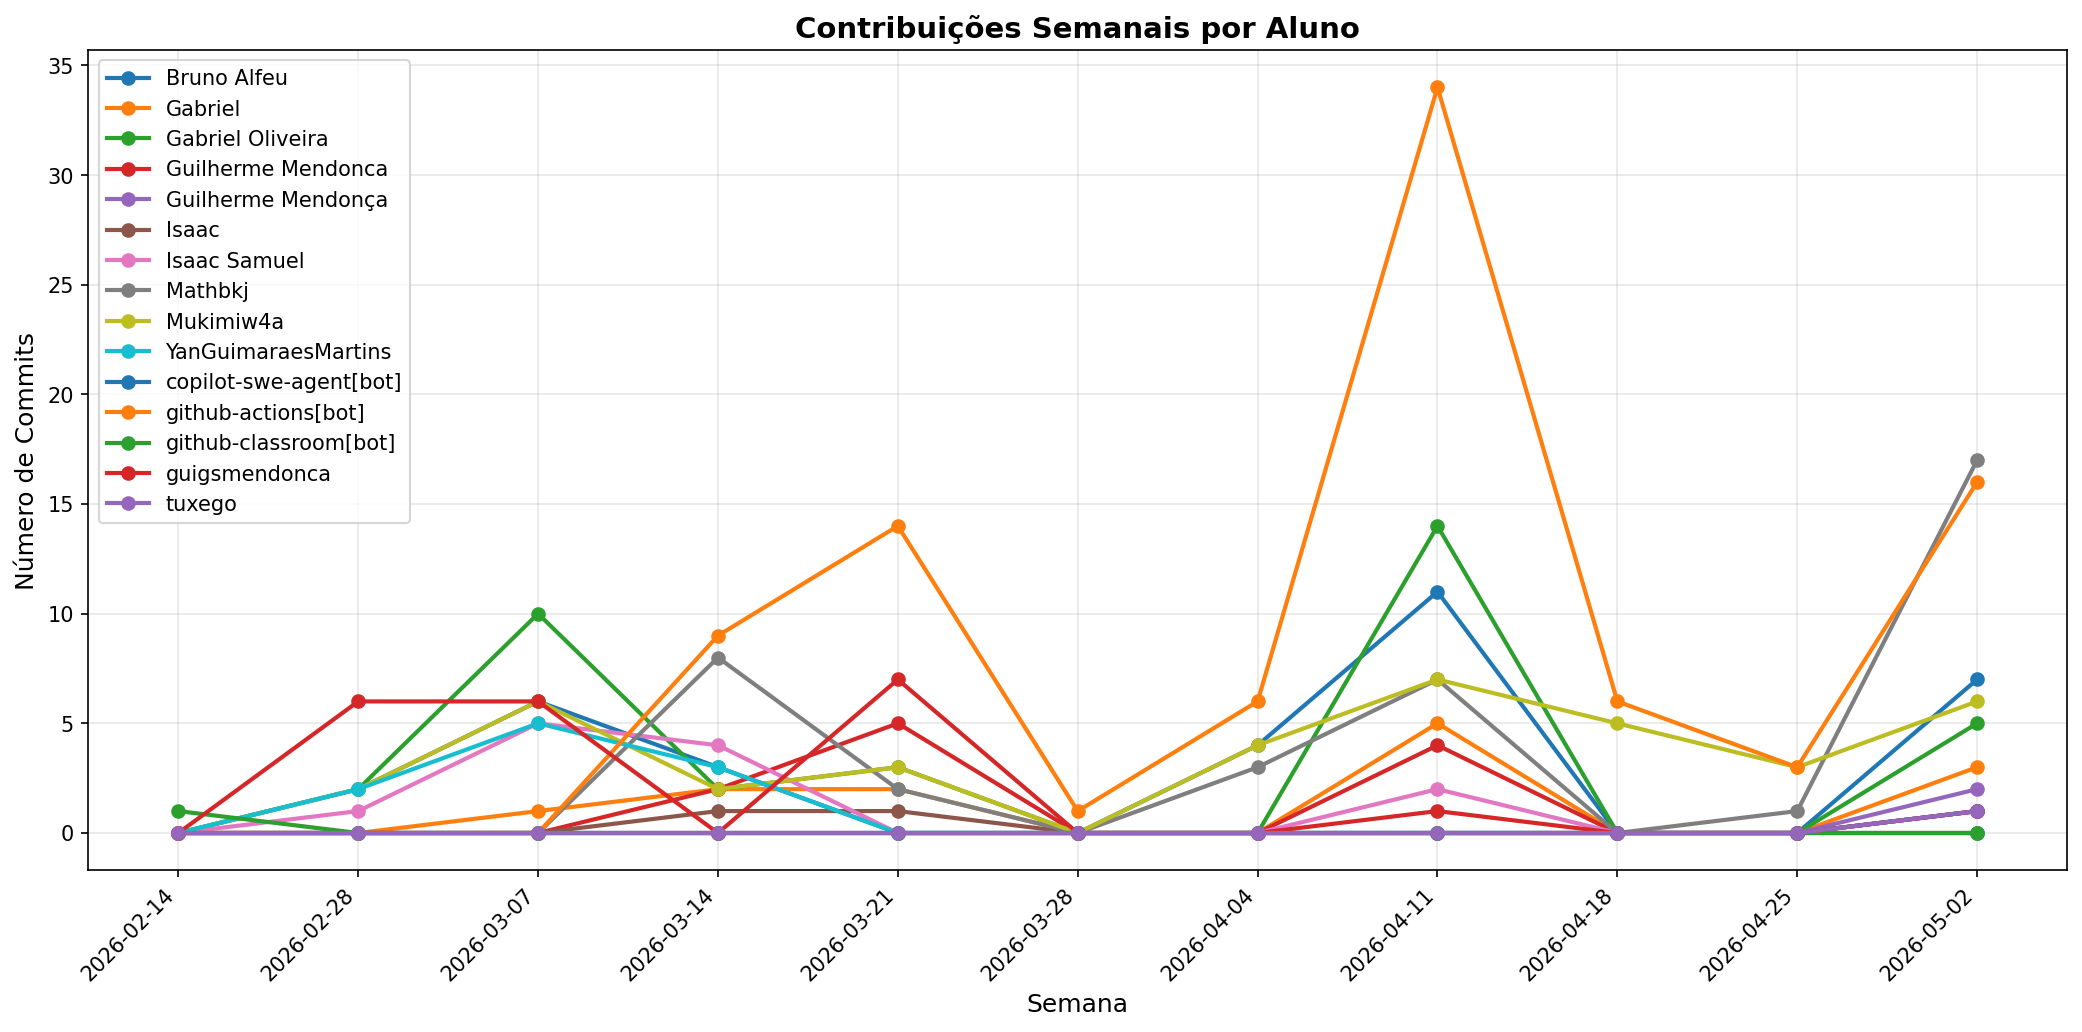
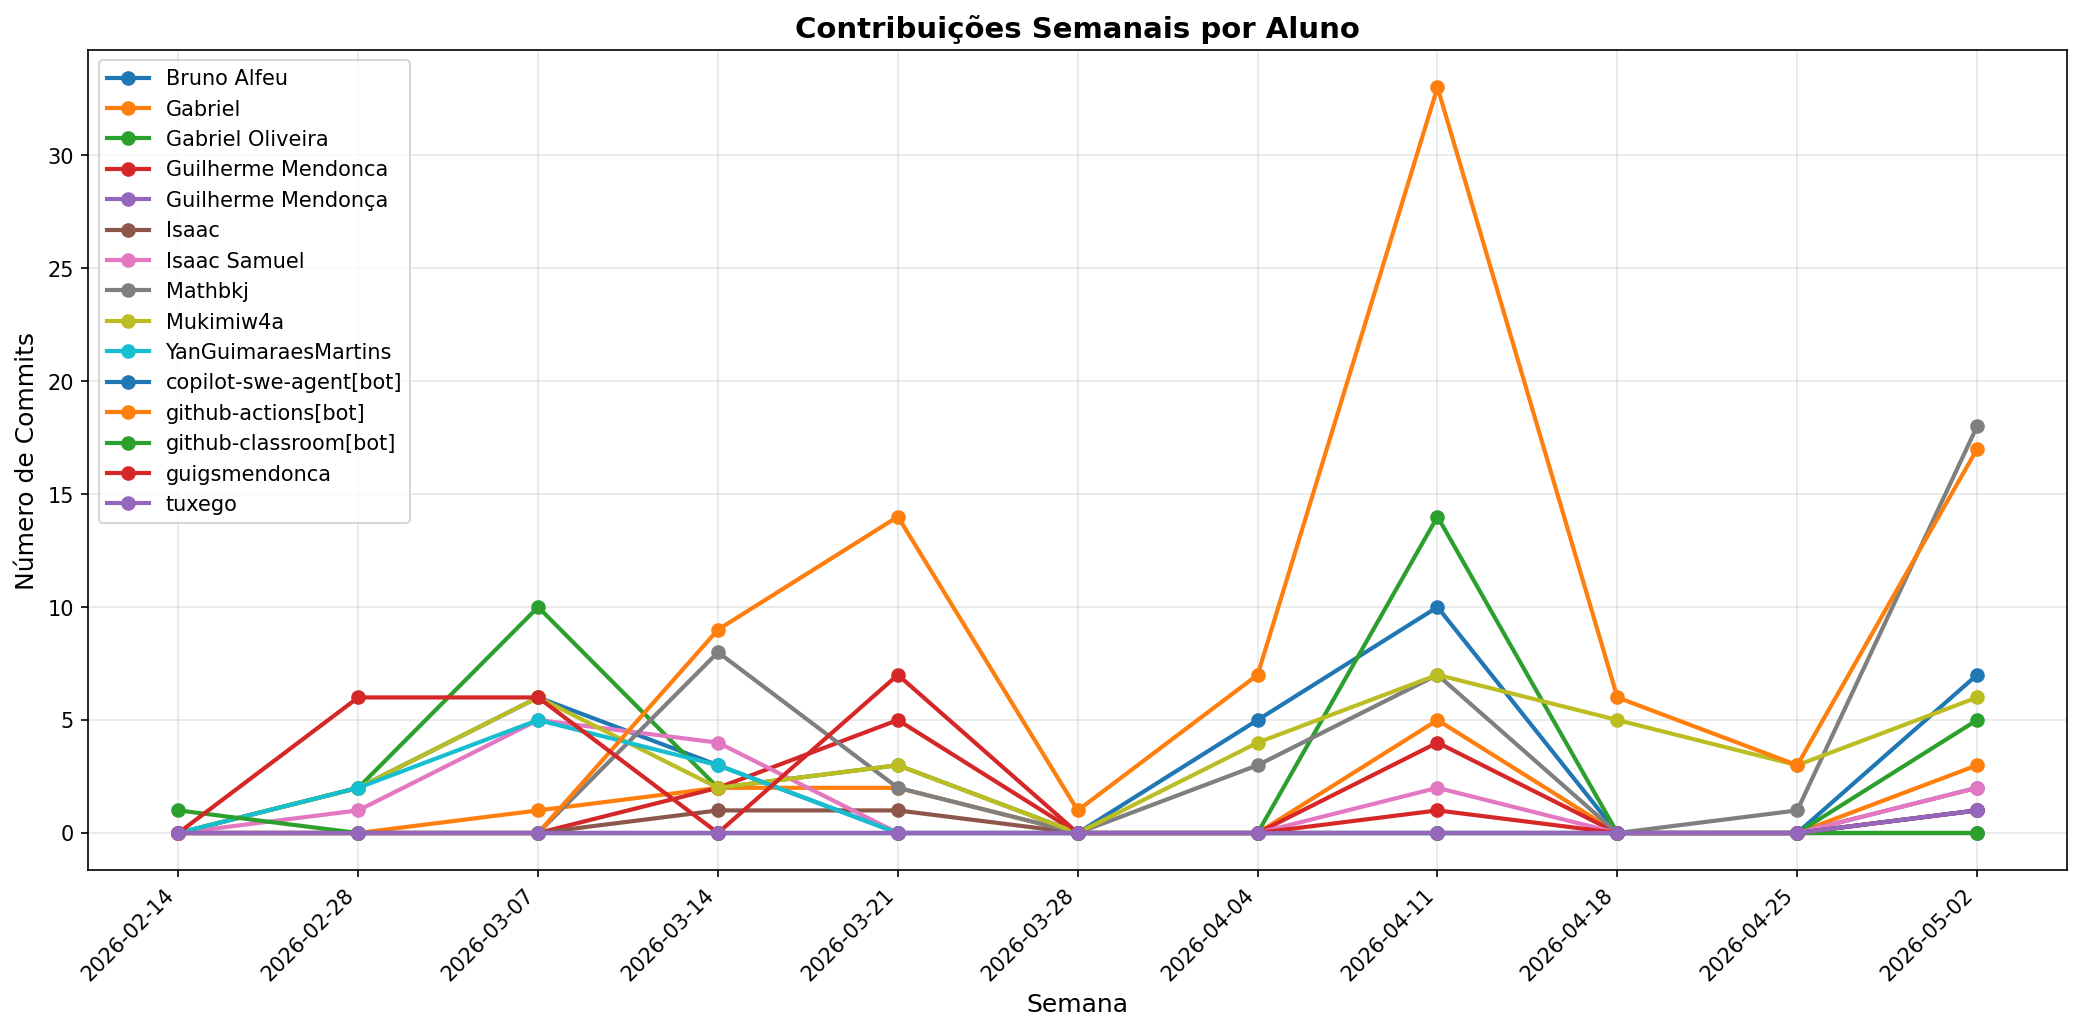
📊 Atualizar relatório de contribuições [skip ci]

diff --git a/docs/CONTRIBUTION_REPORT.md b/docs/CONTRIBUTION_REPORT.md
@@ -1,6 +1,6 @@
 # 📊 Relatório de Contribuições do Projeto
 
-**Última atualização:** 09/05/2026 21:36
+**Última atualização:** 09/05/2026 21:41
 
 ---
 
@@ -14,12 +14,12 @@
 | Guilherme Mendonca     |        11 |      1079 |       362 |         20 |              9 |               3 |
 | Guilherme Mendonça     |         2 |       768 |         8 |         19 |              1 |               2 |
 | Isaac                  |         3 |      1728 |       363 |         31 |              0 |               0 |
-| Isaac Samuel           |        13 |        85 |        72 |          6 |             11 |               5 |
-| Mathbkj                |        38 |     32446 |      6898 |        205 |              3 |               1 |
+| Isaac Samuel           |        14 |        89 |        76 |          6 |             12 |               5 |
+| Mathbkj                |        39 |     32562 |      6914 |        208 |              3 |               1 |
 | Mukimiw4a              |        38 |      1327 |       235 |         31 |             28 |               9 |
 | YanGuimaraesMartins    |        10 |       300 |        16 |          8 |              7 |               4 |
 | copilot-swe-agent[bot] |         1 |         0 |         0 |          0 |              0 |               0 |
-| github-actions[bot]    |        89 |       677 |       659 |          3 |             89 |               1 |
+| github-actions[bot]    |        90 |       688 |       669 |          3 |             90 |               1 |
 | github-classroom[bot]  |         1 |      2152 |         0 |         45 |              1 |              13 |
 | guigsmendonca          |        21 |       178 |       150 |          9 |             16 |               4 |
 | tuxego                 |         1 |   5263498 |         1 |      34971 |              0 |               0 |
@@ -27,15 +27,15 @@
 
 ## 📅 Contribuições Semanais (Todo o Semestre)
 
-**2026-05-02**: Bruno Alfeu: 7, Gabriel: 3, Gabriel Oliveira: 5, Guilherme Mendonça: 2, Isaac: 1, Isaac Samuel: 1, Mathbkj: 17, Mukimiw4a: 6, copilot-swe-agent[bot]: 1, github-actions[bot]: 16, guigsmendonca: 1, tuxego: 1
+**2026-05-02**: Bruno Alfeu: 7, Gabriel: 3, Gabriel Oliveira: 5, Guilherme Mendonça: 2, Isaac: 1, Isaac Samuel: 2, Mathbkj: 18, Mukimiw4a: 6, copilot-swe-agent[bot]: 1, github-actions[bot]: 17, guigsmendonca: 1, tuxego: 1
 
 **2026-04-25**: Mathbkj: 1, Mukimiw4a: 3, github-actions[bot]: 3
 
 **2026-04-18**: Mukimiw4a: 5, github-actions[bot]: 6
 
-**2026-04-11**: Bruno Alfeu: 11, Gabriel: 5, Gabriel Oliveira: 14, Guilherme Mendonca: 4, Isaac Samuel: 2, Mathbkj: 7, Mukimiw4a: 7, github-actions[bot]: 34, guigsmendonca: 1
+**2026-04-11**: Bruno Alfeu: 10, Gabriel: 5, Gabriel Oliveira: 14, Guilherme Mendonca: 4, Isaac Samuel: 2, Mathbkj: 7, Mukimiw4a: 7, github-actions[bot]: 33, guigsmendonca: 1
 
-**2026-04-04**: Bruno Alfeu: 4, Mathbkj: 3, Mukimiw4a: 4, github-actions[bot]: 6
+**2026-04-04**: Bruno Alfeu: 5, Mathbkj: 3, Mukimiw4a: 4, github-actions[bot]: 7
 
 **2026-03-28**: github-actions[bot]: 1
 
